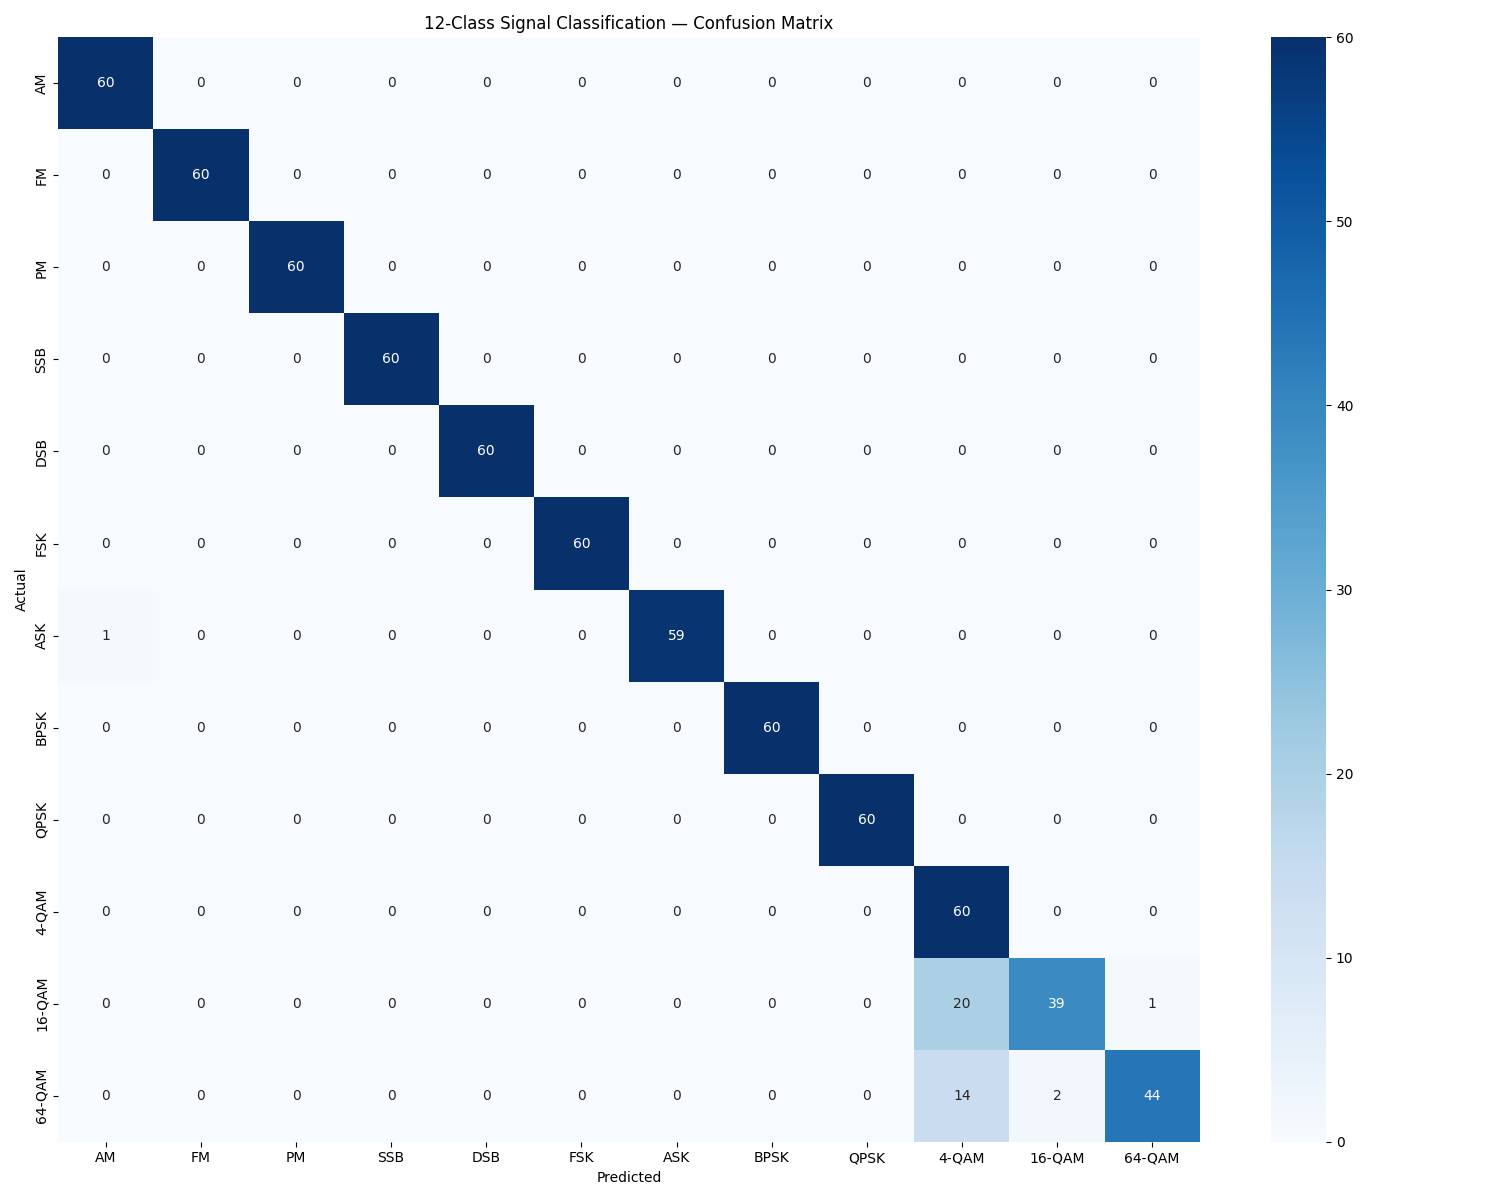
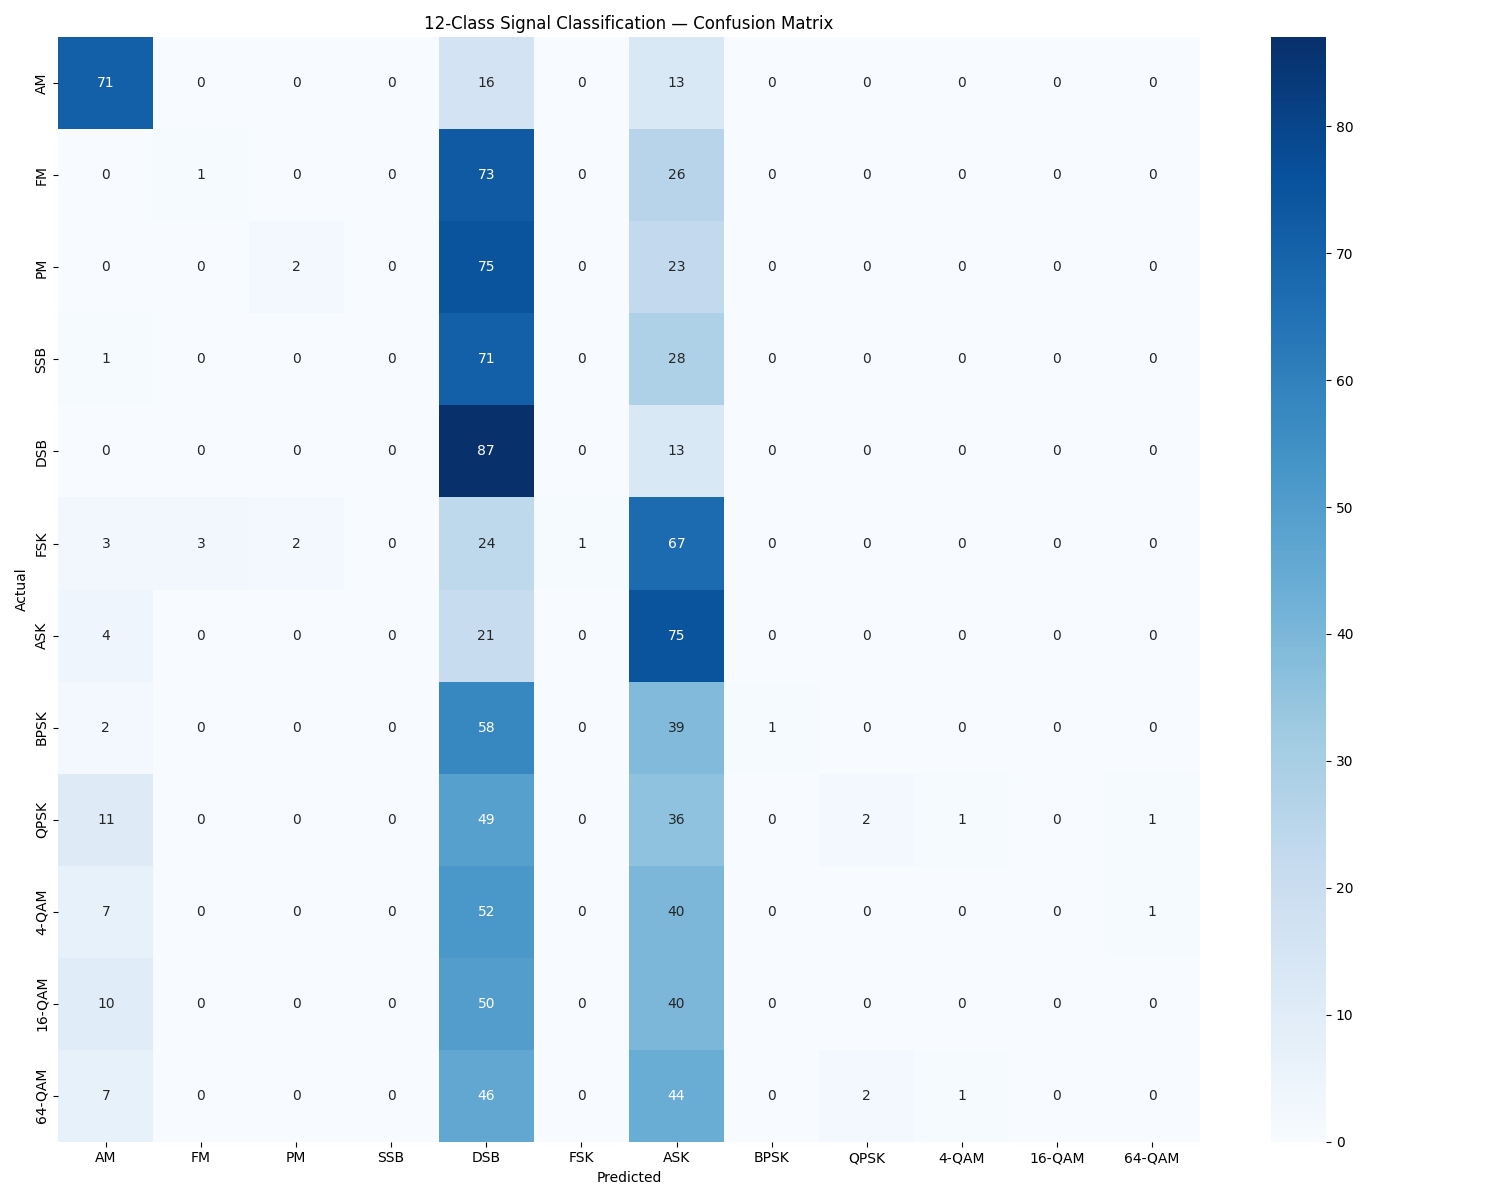
Initial commit: Added robust CNN model with dynamic noise and frequency

Changed region(s): [[0.276, 0.0308, 0.7973, 0.9558], [0.0307, 0.0308, 0.368, 0.3392], [0.0307, 0.6475, 0.1227, 0.74]]

diff --git a/Train_CNN.py b/Train_CNN.py
@@ -13,8 +13,9 @@ import matplotlib.pyplot as plt
 FS                = 5000
 DURATION          = 1
 SAMPLES           = FS * DURATION
-SAMPLES_PER_CLASS = 300
-NOISE_STD         = 0.15
+SAMPLES_PER_CLASS = 500
+SNR_RANGE         = (-5, 15)           # نطاق الشوشرة (من قوية جداً لمتوسطة)
+FREQ_RANGE        = (50, 400)          # نطاق ترددات الكارير عشان ميبقاش ثابت
 
 SIGNAL_NAMES = [
     "AM", "FM", "PM",
@@ -49,69 +50,120 @@ def apply_signal_filter(signal, signal_type):
     return low_pass_filter(signal, cutoff=300)
 
 # ============================================================
-# 2. توليد الإشارات (12 نوع)
 # ============================================================
+# 2. توليد الإشارات (12 نوع مع تردد ونويز متغير)
+# ============================================================
+
+def get_random_params():
+    # تردد الكارير متغير بين 80 و 250 هرتز
+    f_c = np.random.uniform(FREQ_RANGE[0], FREQ_RANGE[1])
+    # نسبة الشوشرة SNR متغيرة
+    snr = np.random.uniform(SNR_RANGE[0], SNR_RANGE[1])
+    return f_c, snr
+
+def apply_noise(signal, snr_db):
+    snr_linear = 10**(snr_db / 10)
+    sig_power = np.mean(signal**2)
+    noise_power = sig_power / (snr_linear + 1e-8)
+    noise = np.sqrt(noise_power) * np.random.normal(size=len(signal))
+    return signal + noise
+
+# --- إشارات الـ Analog ---
+
 def generate_am(fs=FS):
     t = np.linspace(0, 1, fs, endpoint=False)
-    return (1 + 0.5 * np.sin(2 * np.pi * 5 * t)) * np.sin(2 * np.pi * 100 * t)
+    f_c, snr = get_random_params()
+    sig = (1 + 0.5 * np.sin(2 * np.pi * 5 * t)) * np.sin(2 * np.pi * f_c * t)
+    return apply_noise(sig, snr)
 
 def generate_fm(fs=FS):
     t = np.linspace(0, 1, fs, endpoint=False)
-    return np.sin(2 * np.pi * (100 * t + 20 * np.cumsum(np.sin(2 * np.pi * 5 * t)) / fs))
+    f_c, snr = get_random_params()
+    # التردد بيتغير حول f_c بناءً على إشارة المعلومات
+    sig = np.sin(2 * np.pi * (f_c * t + 20 * np.cumsum(np.sin(2 * np.pi * 5 * t)) / fs))
+    return apply_noise(sig, snr)
 
 def generate_pm(fs=FS):
     t = np.linspace(0, 1, fs, endpoint=False)
+    f_c, snr = get_random_params()
     m = np.sin(2 * np.pi * 5 * t)
-    return np.sin(2 * np.pi * 100 * t + np.pi * m)
+    sig = np.sin(2 * np.pi * f_c * t + np.pi * m)
+    return apply_noise(sig, snr)
 
 def generate_ssb(fs=FS):
     t = np.linspace(0, 1, fs, endpoint=False)
+    f_c, snr = get_random_params()
     m = np.sin(2 * np.pi * 5 * t)
-    carrier = np.cos(2 * np.pi * 100 * t)
-    return m * carrier - np.sqrt(1 - m**2 + 1e-8) * np.sin(2 * np.pi * 100 * t)
+    carrier_cos = np.cos(2 * np.pi * f_c * t)
+    carrier_sin = np.sin(2 * np.pi * f_c * t)
+    # استخدام Hilbert transform التقريبي لإيجاد SSB
+    sig = m * carrier_cos - np.sqrt(1 - m**2 + 1e-8) * carrier_sin
+    return apply_noise(sig, snr)
 
 def generate_dsb(fs=FS):
     t = np.linspace(0, 1, fs, endpoint=False)
+    f_c, snr = get_random_params()
     m = np.sin(2 * np.pi * 5 * t)
-    return m * np.cos(2 * np.pi * 100 * t)
+    sig = m * np.cos(2 * np.pi * f_c * t)
+    return apply_noise(sig, snr)
+
+# --- إشارات الـ Digital ---
 
 def generate_fsk(fs=FS):
     t = np.linspace(0, 1, fs, endpoint=False)
-    f1, f2 = 50, 150
-    data = np.repeat(np.random.randint(0, 2, 10), 500)
-    return np.sin(2 * np.pi * np.where(data == 0, f1, f2) * t)
+    f_c, snr = get_random_params()
+    f1, f2 = f_c - 50, f_c + 50 # الترددين بيعتمدوا على f_c المتغير
+    data = np.repeat(np.random.randint(0, 2, 10), fs//10)
+    sig = np.sin(2 * np.pi * np.where(data == 0, f1, f2) * t)
+    return apply_noise(sig, snr)
 
 def generate_ask(fs=FS):
     t = np.linspace(0, 1, fs, endpoint=False)
-    data = np.repeat(np.random.randint(0, 2, 10), 500)
-    return np.where(data == 0, 0.1, 1.0) * np.sin(2 * np.pi * 100 * t)
+    f_c, snr = get_random_params()
+    data = np.repeat(np.random.randint(0, 2, 10), fs//10)
+    sig = np.where(data == 0, 0.2, 1.0) * np.sin(2 * np.pi * f_c * t)
+    return apply_noise(sig, snr)
 
 def generate_bpsk(fs=FS):
     t = np.linspace(0, 1, fs, endpoint=False)
-    data = np.repeat(np.random.randint(0, 2, 10), 500)
-    return np.sin(2 * np.pi * 100 * t + np.where(data == 0, 0, np.pi))
+    f_c, snr = get_random_params()
+    data = np.repeat(np.random.randint(0, 2, 10), fs//10)
+    sig = np.sin(2 * np.pi * f_c * t + np.where(data == 0, 0, np.pi))
+    return apply_noise(sig, snr)
 
 def generate_qpsk(fs=FS):
     t = np.linspace(0, 1, fs, endpoint=False)
-    return np.sin(2 * np.pi * 100 * t + np.random.choice([0, np.pi/2, np.pi, 3*np.pi/2]))
+    f_c, snr = get_random_params()
+    # تغيير الطور عشوائياً لكل عينة
+    phase = np.random.choice([0, np.pi/2, np.pi, 3*np.pi/2])
+    sig = np.sin(2 * np.pi * f_c * t + phase)
+    return apply_noise(sig, snr)
 
 def generate_qam4(fs=FS):
     t = np.linspace(0, 1, fs, endpoint=False)
-    return np.sin(2 * np.pi * 100 * t + np.random.choice([np.pi/4, 3*np.pi/4, 5*np.pi/4, 7*np.pi/4]))
+    f_c, snr = get_random_params()
+    phase = np.random.choice([np.pi/4, 3*np.pi/4, 5*np.pi/4, 7*np.pi/4])
+    sig = np.sin(2 * np.pi * f_c * t + phase)
+    return apply_noise(sig, snr)
 
 def generate_qam16(fs=FS):
     t = np.linspace(0, 1, fs, endpoint=False)
+    f_c, snr = get_random_params()
     pts = [-3, -1, 1, 3]
     I, Q = np.random.choice(pts), np.random.choice(pts)
-    sig = I * np.cos(2 * np.pi * 100 * t) - Q * np.sin(2 * np.pi * 100 * t)
-    return sig / (np.max(np.abs(sig)) + 1e-8)
+    sig = I * np.cos(2 * np.pi * f_c * t) - Q * np.sin(2 * np.pi * f_c * t)
+    # Normalize
+    sig = sig / (np.max(np.abs(sig)) + 1e-8)
+    return apply_noise(sig, snr)
 
 def generate_qam64(fs=FS):
     t = np.linspace(0, 1, fs, endpoint=False)
+    f_c, snr = get_random_params()
     pts = [-7, -5, -3, -1, 1, 3, 5, 7]
     I, Q = np.random.choice(pts), np.random.choice(pts)
-    sig = I * np.cos(2 * np.pi * 100 * t) - Q * np.sin(2 * np.pi * 100 * t)
-    return sig / (np.max(np.abs(sig)) + 1e-8)
+    sig = I * np.cos(2 * np.pi * f_c * t) - Q * np.sin(2 * np.pi * f_c * t)
+    sig = sig / (np.max(np.abs(sig)) + 1e-8)
+    return apply_noise(sig, snr)
 
 GENERATORS = [
     generate_am, generate_fm, generate_pm,
@@ -175,24 +227,34 @@ def get_spec(signal, fs=FS):
     Sxx_log   = 10 * np.log10(Sxx + 1e-10)
     return (Sxx_log - Sxx_log.min()) / (Sxx_log.max() - Sxx_log.min() + 1e-8)
 
+
 # ============================================================
-# 5. بناء الـ Dataset
+# 5. بناء الـ Dataset (التعديل الشامل لمنع الـ Overfitting)
 # ============================================================
 print("📦 Preparing Dataset...")
 X, y = [], []
 
 for label, (gen_func, sig_name) in enumerate(zip(GENERATORS, SIGNAL_NAMES)):
-    for _ in range(SAMPLES_PER_CLASS):
-        noise = np.random.normal(0, NOISE_STD, SAMPLES)
-        raw   = gen_func()
-        filt  = apply_signal_filter(raw + noise, sig_name)
-        X.append(get_spec(filt))
+    for i in range(SAMPLES_PER_CLASS):
+        # هنا بننادي الدالة اللي إحنا عدلناها (زي generate_am)
+        # الدالة دي دلوقتي جواها get_random_params و apply_noise
+        # يعني هي بترجع الإشارة بتردد عشوائي ونويز متغير جاهزة
+        filt_signal = gen_func() 
+        
+        # تحويل الإشارة لـ Spectrogram
+        spec_data = get_spec(filt_signal)
+        
+        # إضافة البيانات للقائمة
+        X.append(spec_data)
         y.append(label)
+        
     print(f"  ✅ {sig_name} done ({SAMPLES_PER_CLASS} samples)")
 
+# تحويل القوائم لـ Numpy Arrays وتغيير الشكل ليتناسب مع الـ CNN
 X = np.array(X).reshape(-1, 129, 38, 1)
 y = np.array(y)
-print(f"\n✅ Dataset: {X.shape}  |  {NUM_CLASSES} classes")
+
+print(f"\n✅ Dataset Ready: {X.shape} samples | {NUM_CLASSES} classes")
 
 # ============================================================
 # 6. تقسيم البيانات
@@ -210,39 +272,25 @@ def build_model(num_classes=12):
     # Block 1
     x = layers.Conv2D(32, (3,3), padding='same', activation='relu')(inp)
     x = layers.BatchNormalization()(x)
-    x = layers.Conv2D(32, (3,3), padding='same', activation='relu')(x)
     x = layers.MaxPooling2D((2,2))(x)
-    x = layers.Dropout(0.25)(x)
+    x = layers.Dropout(0.3)(x) # منع الحفظ
 
     # Block 2
     x = layers.Conv2D(64, (3,3), padding='same', activation='relu')(x)
     x = layers.BatchNormalization()(x)
-    x = layers.Conv2D(64, (3,3), padding='same', activation='relu')(x)
     x = layers.MaxPooling2D((2,2))(x)
-    x = layers.Dropout(0.25)(x)
-
-    # Block 3
-    x = layers.Conv2D(128, (3,3), padding='same', activation='relu')(x)
-    x = layers.BatchNormalization()(x)
-    x = layers.Conv2D(128, (3,3), padding='same', activation='relu')(x)
-    x = layers.MaxPooling2D((2,2))(x)
-    x = layers.Dropout(0.3)(x)
+    x = layers.Dropout(0.4)(x) # دروب أوت أقوى
 
     # Classifier
-    x   = layers.Flatten()(x)
-    x   = layers.Dense(512, activation='relu')(x)
-    x   = layers.BatchNormalization()(x)
-    x   = layers.Dropout(0.4)(x)
-    x   = layers.Dense(256, activation='relu')(x)
-    x   = layers.Dropout(0.3)(x)
+    x = layers.Flatten()(x)
+    x = layers.Dense(256, activation='relu')(x) # قللنا الـ Dense لزيادة الكفاءة
+    x = layers.BatchNormalization()(x)
+    x = layers.Dropout(0.5)(x) # أهم دروب أوت لمنع الـ Overfitting
     out = layers.Dense(num_classes, activation='softmax')(x)
 
     m = models.Model(inp, out)
-    m.compile(
-        optimizer=tf.keras.optimizers.Adam(1e-3),
-        loss='sparse_categorical_crossentropy',
-        metrics=['accuracy']
-    )
+    m.compile(optimizer=tf.keras.optimizers.Adam(1e-4), # سرعة تعلم أهدأ للثبات
+              loss='sparse_categorical_crossentropy', metrics=['accuracy'])
     return m
 
 model = build_model(NUM_CLASSES)
@@ -313,4 +361,21 @@ plt.show()
 
 print("\n📋 Classification Report:")
 print(classification_report(y_test, y_pred, target_names=SIGNAL_NAMES))
+# ============================================================
+# 12. وظيفة التدريب المستمر (التدريب مع كل إدخال جديد)
+# ============================================================
+def update_model_on_the_fly(model, new_signal_data, true_label_idx):
+    # تحويل الإشارة لـ Spectrogram بنفس الطريقة القديمة
+    spec = get_spec(new_signal_data)
+    spec = spec.reshape(1, 129, 38, 1)
+    
+    # عمل "تحديث" سريع للموديل على العينة دي بس
+    # بنستخدم epochs=1 عشان ميبوظش اللي اتعلمه قبل كده
+    model.fit(spec, np.array([true_label_idx]), epochs=1, verbose=0)
+    
+    # حفظ النسخة المحدثة
+    model.save("signal_cnn_model.h5")
+    return model
+
 print("🏆 Done!")
+ 